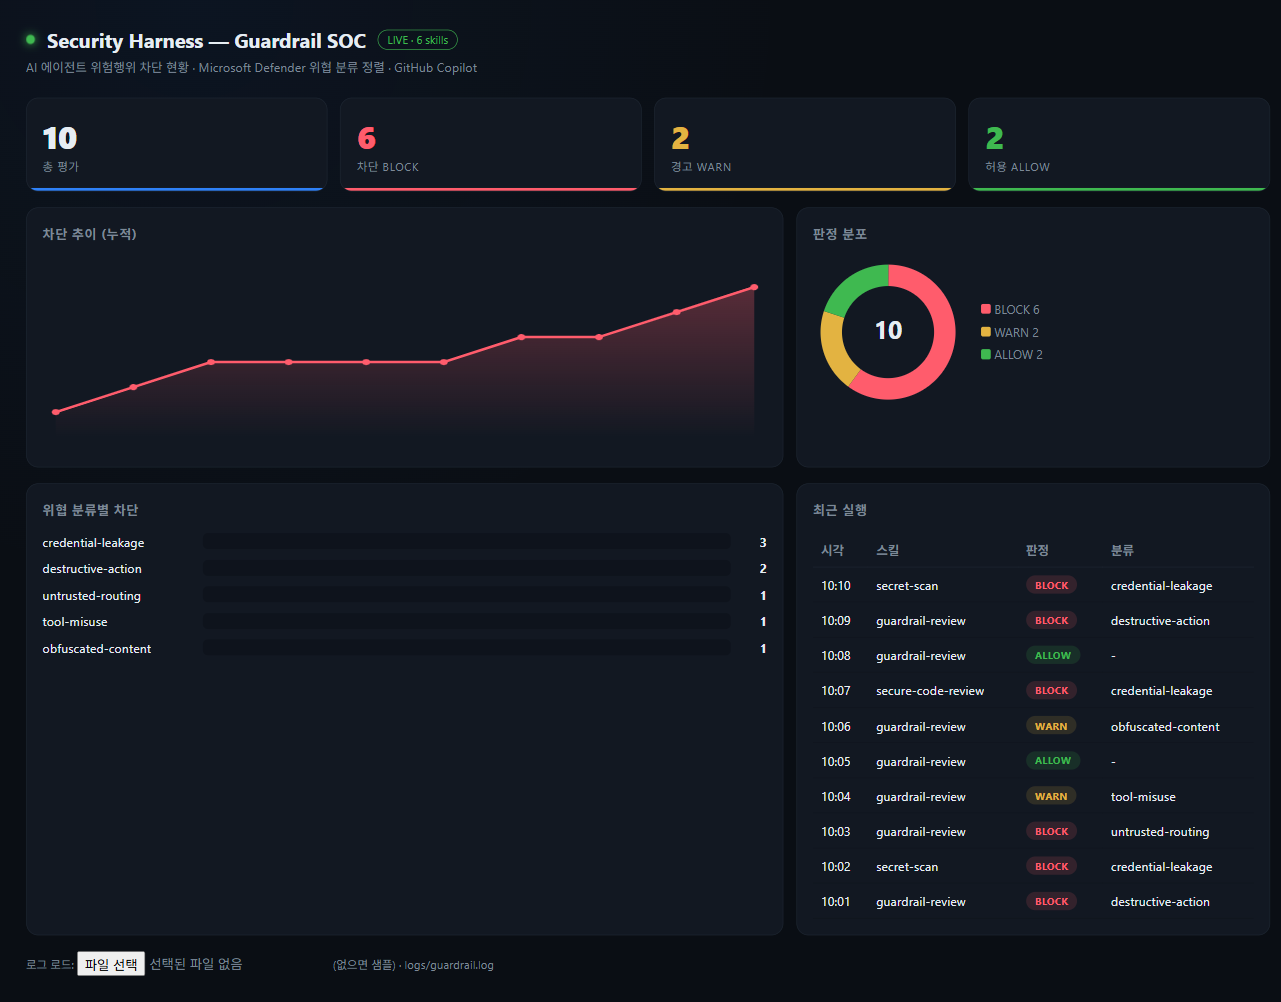
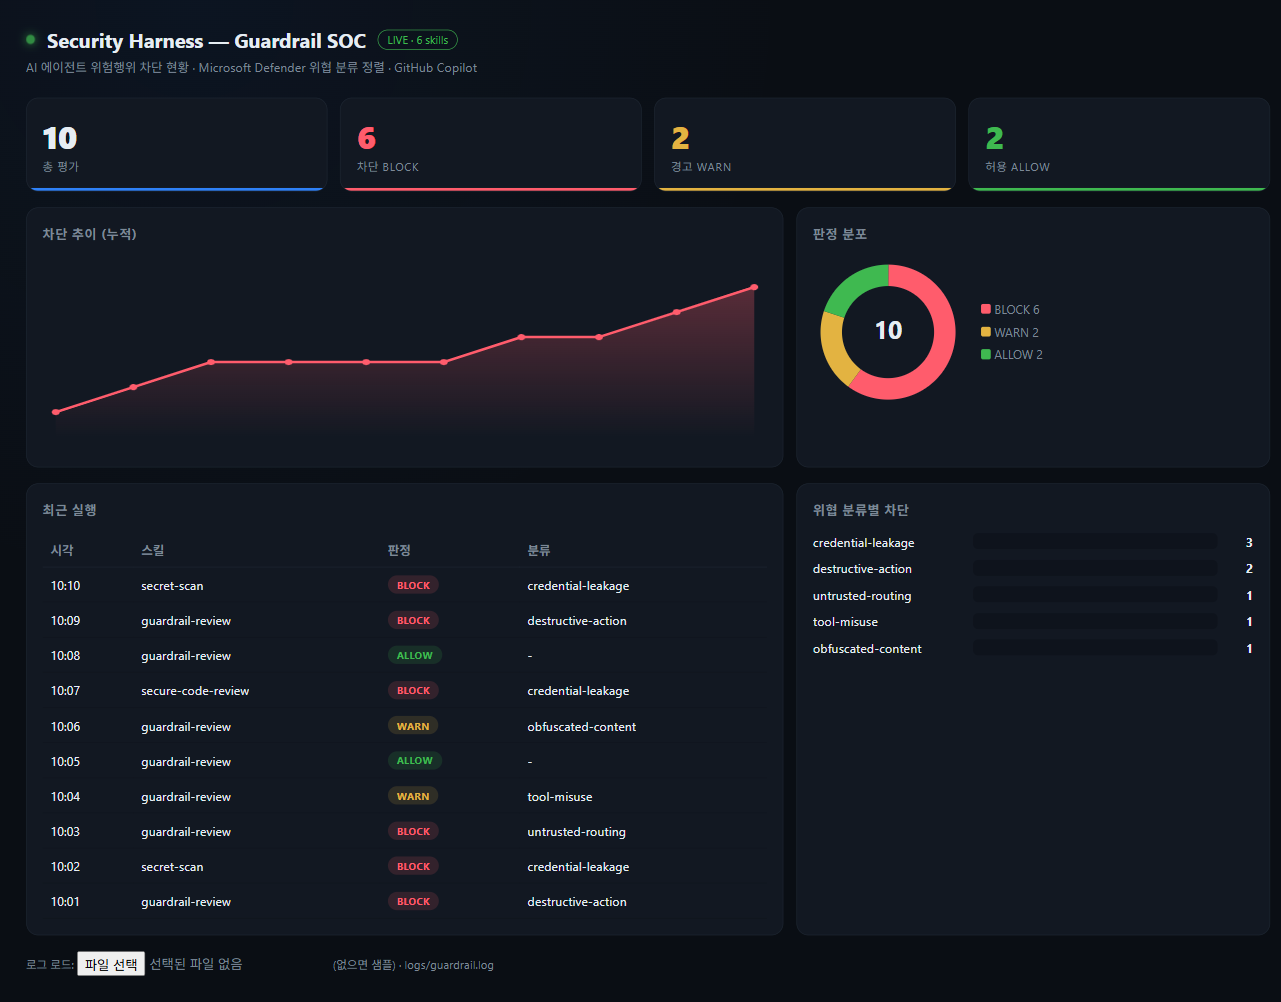
ui: swap recent-runs and category panels for better layout

diff --git a/dashboard/index.html b/dashboard/index.html
@@ -47,8 +47,8 @@
     <div class="panel"><h2>판정 분포</h2><div class="donutwrap"><svg id="donut" width="150" height="150" viewBox="0 0 42 42"></svg><div class="donut-c" id="dlegend"></div></div></div>
   </div>
   <div class="grid">
-    <div class="panel"><h2>위협 분류별 차단</h2><div id="cats"></div></div>
     <div class="panel"><h2>최근 실행</h2><table><thead><tr><th>시각</th><th>스킬</th><th>판정</th><th>분류</th></tr></thead><tbody id="rows"></tbody></table></div>
+    <div class="panel"><h2>위협 분류별 차단</h2><div id="cats"></div></div>
   </div>
   <div class="file">로그 로드: <input type="file" id="f" accept=".log,.jsonl"/> (없으면 샘플) · logs/guardrail.log</div>
 <script>